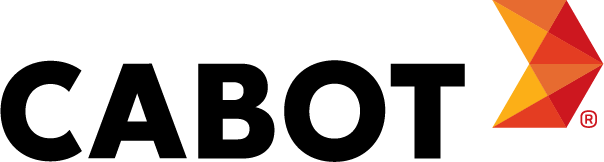
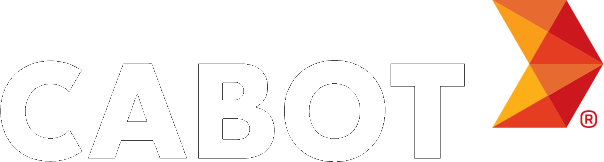
Portada: conservar el color del símbolo de Cabot

Changed region(s): [[0.0, 0.3704, 0.7748, 1.0]]

diff --git a/frontend/index.html b/frontend/index.html
@@ -11,7 +11,7 @@
   <link rel="preconnect" href="https://fonts.googleapis.com">
   <link rel="preconnect" href="https://fonts.gstatic.com" crossorigin>
   <link rel="stylesheet" href="https://fonts.googleapis.com/css2?family=Figtree:wght@600;700;800&family=Inter:wght@400;500;600;700&display=swap">
-  <link rel="stylesheet" href="landing.css?v=16">
+  <link rel="stylesheet" href="landing.css?v=17">
   <script type="importmap">
     { "imports": { "three": "./vendor/three/three.module.min.js", "three/addons/": "./vendor/three/addons/" } }
   </script>
@@ -284,10 +284,9 @@
     <div class="pie-aliados">
       <span class="pie-etiqueta">Un reto de</span>
       <div class="pie-logos">
-        <!-- Cabot, la empresa del reto. Su logo va en landing/cabot.png (cualquier color: aqui se
-             pinta en blanco). Mientras no este, se ve el nombre. -->
+        <!-- Cabot, la empresa del reto. La variante para fondo oscuro conserva el simbolo a color. -->
         <span class="pie-logo">
-          <img src="landing/cabot.png" alt="Cabot"
+          <img class="logo-cabot" src="landing/cabot.png" alt="Cabot"
             onerror="this.replaceWith(Object.assign(document.createElement('b'), {className: 'pie-logo-texto', textContent: 'Cabot'}))">
         </span>
         <!-- El logo de Caribe Innova va en landing/caribe-innova.png (blanco, fondo transparente).

diff --git a/frontend/landing.css b/frontend/landing.css
@@ -457,8 +457,9 @@ p { margin: 0; }
 .pie-logo { display: inline-flex; align-items: center; min-height: 52px; padding-inline: 26px; }
 .pie-logo:first-child { padding-left: 0; }
 .pie-logo + .pie-logo { border-left: 1px solid rgba(255, 255, 255, .28); }
-/* Todos en blanco puro, como los aliados del afiche, sea cual sea su color. */
+/* Los aliados van en blanco; Cabot conserva a color el simbolo de su marca. */
 .pie-logo img { display: block; height: 40px; width: auto; filter: brightness(0) invert(1); }
+.pie-logo img.logo-cabot { filter: none; }
 .pie-logo img.logo-camara { height: 60px; }
 .pie-logo img.logo-econova { height: 42px; }
 .pie-logo-texto { font-family: var(--f-titulo); font-weight: 800; font-size: 24px; letter-spacing: -.035em; color: #fff; }
